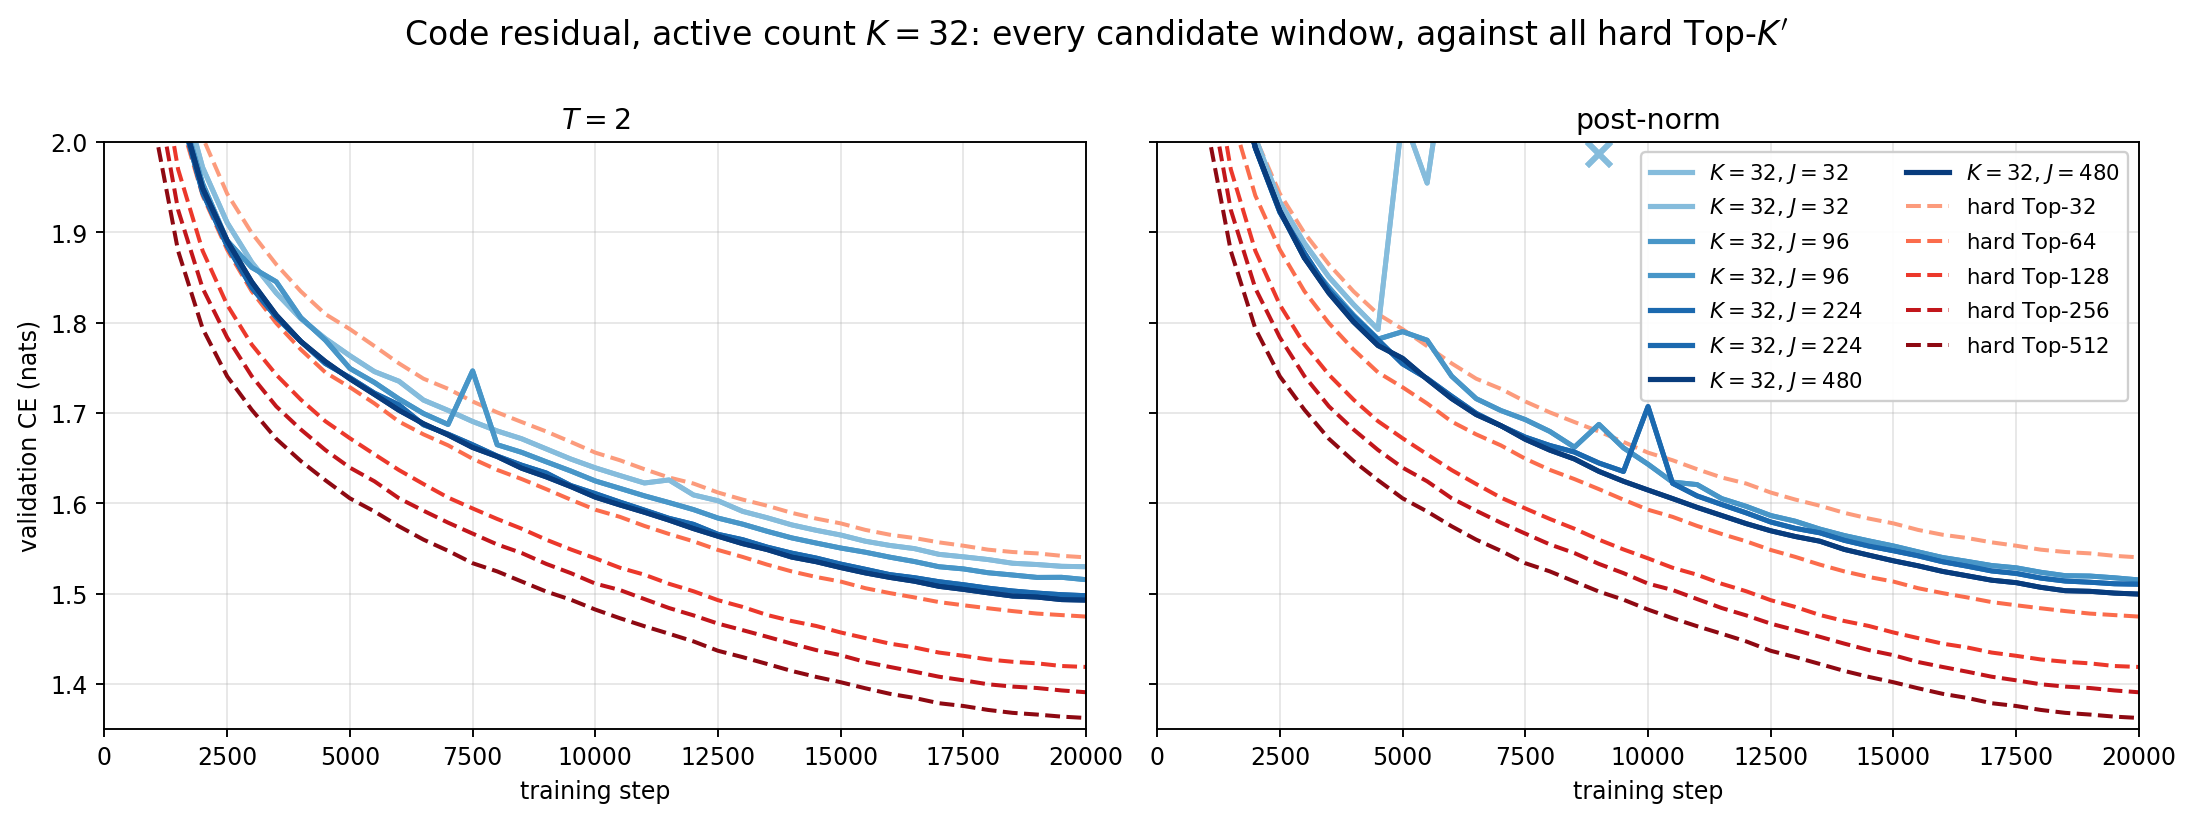
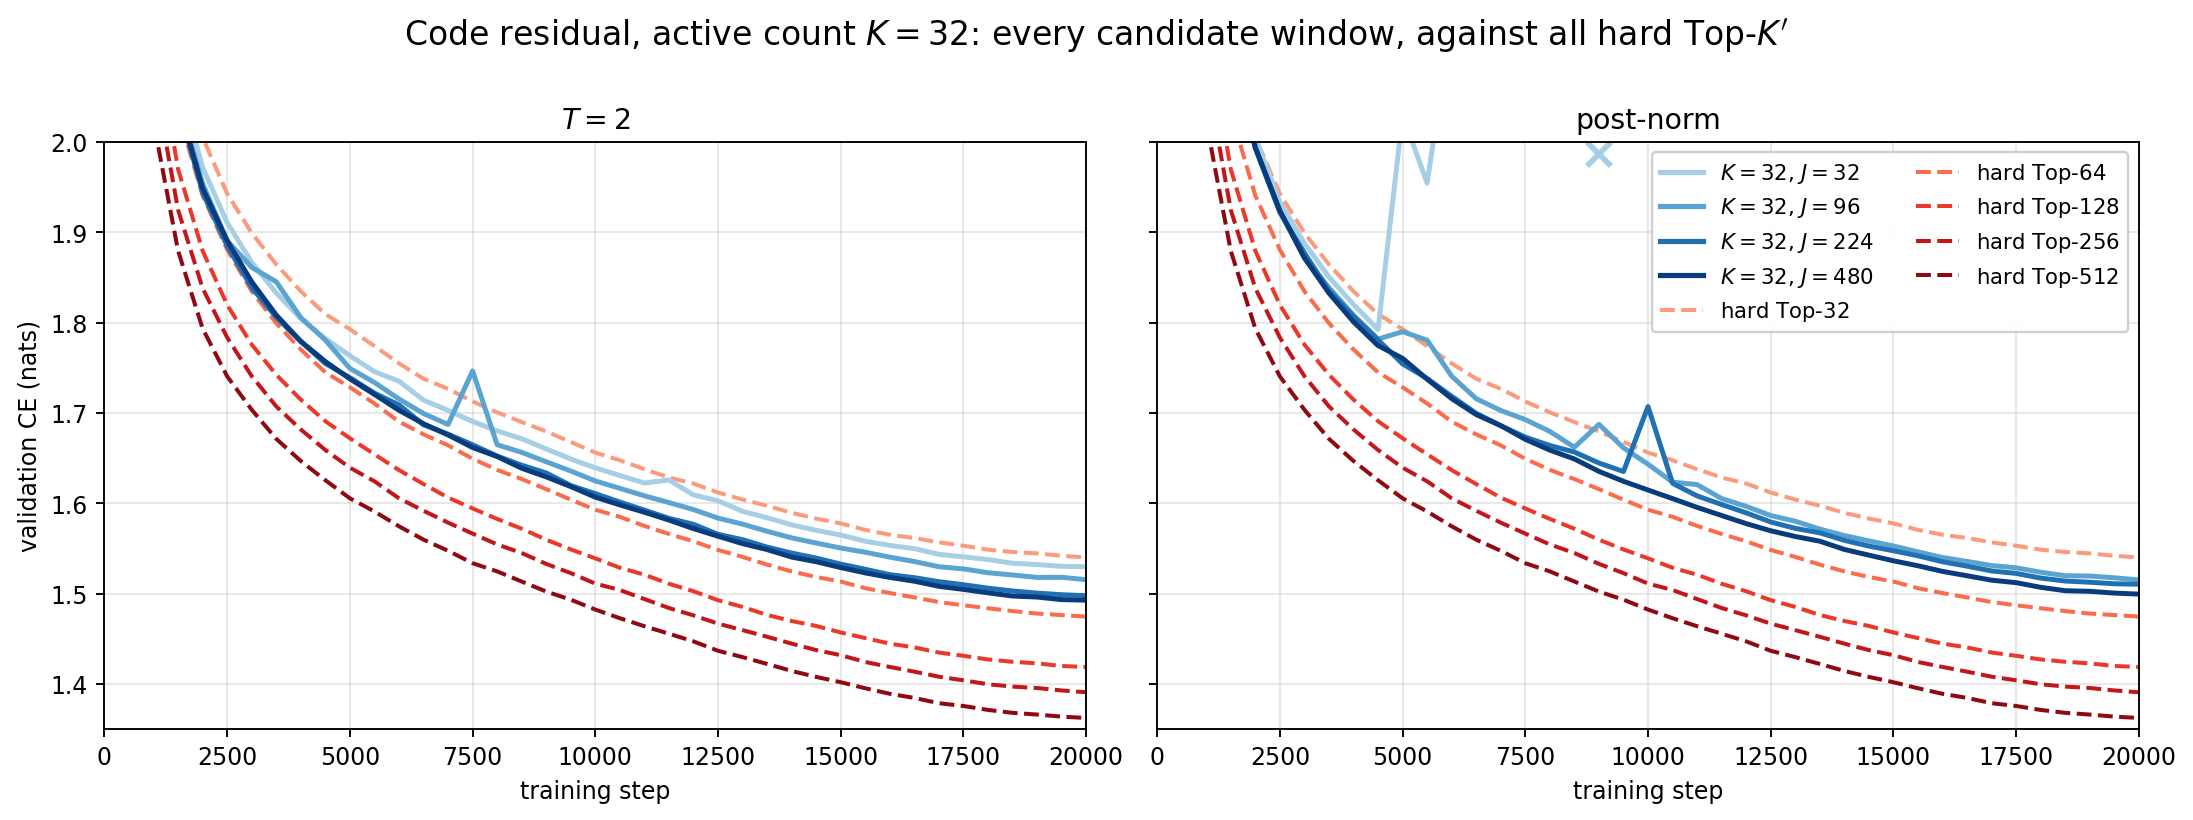
docs: code-residual K+J note -- grid results, captions, stream-vs-code comparison, interpretation (sweep pending)

diff --git a/docs/kj-vs-hard-topk-code-residual.tex b/docs/kj-vs-hard-topk-code-residual.tex
@@ -53,10 +53,32 @@ change, for the hard baselines and for the surrogate cells.
 The main conclusions are:
 
 \begin{itemize}[leftmargin=1.4em]
-\item \PH{summary 1}
-\item \PH{summary 2}
-\item \PH{summary 3}
-\item \PH{summary 4}
+\item \textbf{Carrying the code lowers the loss of every hard Top-$\Kp$
+baseline by $0.061$--$0.075$ nats}, at all five $\Kp$: a code-carried
+Top-$\Kp$ lands at or below the stream-carried Top-$2\Kp$. The best model of
+either grid is code-carried hard Top-512 at $1.3622$, against $1.4146$ for the
+best stream-carried model (the $(256,256)$ post-norm surrogate cell).
+
+\item \textbf{For the surrogate the carry is nearly neutral.} In the $T=2$
+arm the ten cells move by $-0.030$ to $+0.013$ nats (mean $-0.012$): small
+gains on the diagonal $J=K$, none at the wide windows of $K=32$. The ordering
+in $J$ is unchanged, and widening $J$ still helps monotonically at every $K$.
+
+\item \textbf{The post-norm arm becomes unstable.} Every post-norm cell with
+$K \le 128$ shows recurrent gradient-norm spikes, and five of the ten cells
+collapse to the unigram level -- $J=K$ at $K = 32, 64, 128$, and $(64,192)$,
+$(64,448)$; the five that finish end within $0.04$ nats of their
+stream-carried twins. No $T=2$ or hard cell spiked beyond recovery.
+
+\item \textbf{The candidate window no longer substitutes for active
+features.} At a fixed pool no code-carried surrogate cell beats hard
+Top-$\Kp$: on the diagonal $J=K$, where the stream-carried surrogate won by
+$0.009$--$0.014$, it now trails by $0.055$--$0.065$. At a matched active count
+the surrogate's margin over hard Top-$K$ shrinks from $0.107 / 0.087 / 0.064
+/ 0.041$ (stream carried, $K = 32$ to $256$) to $0.047 / 0.010$ at $K = 32,
+64$ and reverses to $-0.021 / -0.032$ at $K = 128, 256$.
+
+\item \PH{summary: the K=32, T=2 sweep}
 \end{itemize}
 
 % ============================================================
@@ -226,33 +248,81 @@ column.
 \toprule
 $K$ & $\Kp{=}64$ & $\Kp{=}128$ & $\Kp{=}256$ & $\Kp{=}512$ \\
 \midrule
-$32$   & \PH{} & \PH{} & \PH{} & \PH{} \\
-$64$   & ---    & \PH{} & \PH{} & \PH{} \\
-$128$  & ---    & ---    & \PH{} & \PH{} \\
-$256$  & ---    & ---    & ---    & \PH{} \\
+$32$   & 1.5297 & 1.5153 & 1.4976 & 1.4927 \\
+$64$   & ---    & 1.4840 & 1.4773 & 1.4641 \\
+$128$  & ---    & ---    & 1.4507 & 1.4436 \\
+$256$  & ---    & ---    & ---    & 1.4244 \\
 \midrule
-hard Top-$\Kp$ & \PH{} & \PH{} & \PH{} & \PH{} \\
+hard Top-$\Kp$ & 1.4745 & 1.4187 & 1.3907 & 1.3622 \\
 \bottomrule
 \end{tabular}
 \end{center}
 
 \begin{center}\small
-\textbf{post-norm, code carried}\\[2pt]
+\textbf{post-norm, code carried} (``div'': collapsed, with the step at which the run was stopped)\\[2pt]
 \begin{tabular}{lcccc}
 \toprule
 $K$ & $\Kp{=}64$ & $\Kp{=}128$ & $\Kp{=}256$ & $\Kp{=}512$ \\
 \midrule
-$32$   & \PH{} & \PH{} & \PH{} & \PH{} \\
-$64$   & ---    & \PH{} & \PH{} & \PH{} \\
-$128$  & ---    & ---    & \PH{} & \PH{} \\
-$256$  & ---    & ---    & ---    & \PH{} \\
+$32$   & div 9160 & 1.5151   & 1.5103   & 1.4994 \\
+$64$   & ---      & div 8020 & div 5840 & div 7860 \\
+$128$  & ---      & ---      & div 7960 & 1.4398 \\
+$256$  & ---      & ---      & ---      & 1.4222 \\
 \midrule
-hard Top-$\Kp$ & \PH{} & \PH{} & \PH{} & \PH{} \\
+hard Top-$\Kp$ & 1.4745 & 1.4187 & 1.3907 & 1.3622 \\
 \bottomrule
 \end{tabular}
 \end{center}
 
-\PH{reading of the tables}
+No cell is bold: no code-carried surrogate cell beats the hard baseline of
+its column. On the diagonal $J = K$, which won every column in the
+stream-carried post-norm grid, the $T=2$ cells trail hard Top-$\Kp$ by
+$0.055$ ($\Kp=64$), $0.065$ ($128$), $0.060$ ($256$) and $0.062$ ($512$), and
+the one surviving post-norm diagonal cell, $(256,256)$, by $0.060$. Within a
+column the ordering by $K$ is the stream grid's: at $\Kp = 512$,
+$1.4244 < 1.4436 < 1.4641 < 1.4927$ for $K = 256, 128, 64, 32$ at $T=2$. The
+hard Top-32 baseline ends at $1.5400$ (stream carried: $1.6022$).
+
+\paragraph{At a matched active count.}
+Against the hard baseline with the same active count, taking each $K$'s best
+surrogate cell in either variant:
+
+\begin{center}\small
+\begin{tabular}{lcccc}
+\toprule
+$K$ & best code-carried cell & hard Top-$K$, code carried & difference & stream-carried difference \\
+\midrule
+$32$  & 1.4927 ($T{=}2$, $J{=}480$)      & 1.5400 & $-0.0473$ & $-0.1073$ \\
+$64$  & 1.4641 ($T{=}2$, $J{=}448$)      & 1.4745 & $-0.0104$ & $-0.0870$ \\
+$128$ & 1.4398 (post-norm, $J{=}384$)    & 1.4187 & $+0.0211$ & $-0.0644$ \\
+$256$ & 1.4222 (post-norm, $J{=}256$)    & 1.3907 & $+0.0315$ & $-0.0414$ \\
+\bottomrule
+\end{tabular}
+\end{center}
+
+The last column is the K+J note's margin. Under the carry the surrogate is
+worth $0.047$ nats at $K=32$ and $0.010$ at $K=64$, and at $K = 128$ and
+$256$ the hard model with the same active count is the better one.
+
+\paragraph{The effect of widening $J$.}
+At fixed $K$ every increase in $J$ still lowers the loss: at $T=2$,
+$1.5297 \to 1.5153 \to 1.4976 \to 1.4927$ for $K=32$ ($J = 32, 96, 224,
+480$), $1.4840 \to 1.4773 \to 1.4641$ for $K=64$, $1.4507 \to 1.4436$ for
+$K=128$; under the post-norm $1.5151 \to 1.5103 \to 1.4994$ for $K=32$
+($J = 96, 224, 480$). The stream-carried reversal at $(32, 480)$ post-norm
+($1.5370$ after $1.4949$ at $J=224$) does not occur: the code-carried cell
+ends at $1.4994$, the best of its row. The total gain from the narrowest to
+the widest window is $0.037$ at $K=32$, $0.020$ at $K=64$ and $0.007$ at
+$K=128$, against $0.036$, $0.030$ and $0.013$ in the stream-carried post-norm
+grid.
+
+\paragraph{$T=2$ against the post-norm.}
+Where both variants finished they are close: $1.5153$ vs.\ $1.5151$ at
+$(32,96)$, $1.4976$ vs.\ $1.5103$ at $(32,224)$, $1.4927$ vs.\ $1.4994$ at
+$(32,480)$, $1.4436$ vs.\ $1.4398$ at $(128,384)$ and $1.4244$ vs.\ $1.4222$
+at $(256,256)$ -- $T=2$ ahead by up to $0.013$ at $K=32$, the post-norm by up
+to $0.004$ at $K \ge 128$. The difference between the variants is their
+stability, not their final loss.
 
 \paragraph{Stability.}
 Every hard run and every $T=2$ run finished. Five of the ten post-norm cells
@@ -272,7 +342,7 @@ post-norm cell has none, the $T=2$ cells have between 0 and 9 (largest norm
 44, each followed by recovery within a few hundred steps), and the hard cells
 none. The three small-$K$ post-norm cells that finished, $(32,96)$, $(32,224)$
 and $(32,480)$, carry their spikes to the end (largest norms $3.7 \times
-10^3$, $54$ and $8$) and still reach $1.5151$, $\PH{k32j224}$ and $1.4994$.
+10^3$, $54$ and $8$) and still reach $1.5151$, $1.5103$ and $1.4994$.
 In the stream-carried grid the same twenty cells showed no divergence.
 
 \subsection*{Per candidate pool}
@@ -284,22 +354,38 @@ runs are code-carried.
 
 \begin{figure}[htb]\centering
 \includegraphics[width=\textwidth]{figures/kj-cr/cr_pool_k64.png}
-\caption{$\Kp = 64$, code carried. \PH{}}
+\caption{$\Kp = 64$, code carried. The single surrogate cell $(32,32)$ ends
+$0.055$ above hard Top-64 at $T=2$ (in the stream grid it ended $0.010$
+below); the post-norm cell is the one that collapsed from step 4900 and was
+stopped at 9160 (the cross marks the stop).}
 \end{figure}
 
 \begin{figure}[htb]\centering
 \includegraphics[width=\textwidth]{figures/kj-cr/cr_pool_k128.png}
-\caption{$\Kp = 128$, code carried. \PH{}}
+\caption{$\Kp = 128$, code carried. At $T=2$ both cells sit above hard
+Top-128 throughout, $(64,64)$ by $0.065$ and $(32,96)$ by $0.097$ at the
+end, with the ordering by $K$ of the stream grid; the $(32,96)$ curve shows a
+recovered spike at step 7500. Under the post-norm $(64,64)$ collapsed at
+step 8020 and $(32,96)$ finished at $1.5151$ with recovered spikes at steps
+4500, 9000 and 11000.}
 \end{figure}
 
 \begin{figure}[htb]\centering
 \includegraphics[width=\textwidth]{figures/kj-cr/cr_pool_k256.png}
-\caption{$\Kp = 256$, code carried. \PH{}}
+\caption{$\Kp = 256$, code carried. At $T=2$ the three cells order by $K$
+-- $1.4507$, $1.4773$, $1.4976$ for $K = 128, 64, 32$ -- and all lie above
+hard Top-256 ($1.3907$) from the first validation point on. Under the
+post-norm $(128,128)$ and $(64,192)$ collapsed (stopped at 7960 and 5840)
+and $(32,224)$ finished at $1.5103$ after a spike at step 10000.}
 \end{figure}
 
 \begin{figure}[htb]\centering
 \includegraphics[width=\textwidth]{figures/kj-cr/cr_pool_k512.png}
-\caption{$\Kp = 512$, code carried. \PH{}}
+\caption{$\Kp = 512$, code carried. The ordering is monotone in $K$ in both
+variants and every cell lies above hard Top-512 ($1.3622$): at $T=2$ by
+$0.062$ ($K=256$), $0.081$ ($128$), $0.102$ ($64$) and $0.131$ ($32$). Under
+the post-norm $(64,448)$ collapsed at step 7860; the other three finished,
+and $(32,480)$ is no longer a reversal.}
 \end{figure}
 
 \subsection*{Per active count}
@@ -311,22 +397,37 @@ All runs are code-carried.
 
 \begin{figure}[htb]\centering
 \includegraphics[width=\textwidth]{figures/kj-cr/cr_active_k32.png}
-\caption{$K = 32$, code carried. \PH{}}
+\caption{$K = 32$, code carried. Widening the window lowers the loss
+monotonically in both variants, but the hard ladder has moved down with the
+carry: the widest window ends between hard Top-32 ($1.5400$) and hard Top-64
+($1.4745$), where the stream-carried $J=224$ cell had passed hard Top-128.
+The post-norm $(32,32)$ cell collapsed; the other three post-norm cells track
+the $T=2$ ones to within $0.013$.}
 \end{figure}
 
 \begin{figure}[htb]\centering
 \includegraphics[width=\textwidth]{figures/kj-cr/cr_active_k64.png}
-\caption{$K = 64$, code carried. \PH{}}
+\caption{$K = 64$, code carried. At $T=2$ only the widest window,
+$J=448$, ends below hard Top-64, by $0.010$; $J = 64$ and $192$ end above it.
+All three post-norm cells collapsed between steps 5840 and 8020.}
 \end{figure}
 
 \begin{figure}[htb]\centering
 \includegraphics[width=\textwidth]{figures/kj-cr/cr_active_k128.png}
-\caption{$K = 128$, code carried. \PH{}}
+\caption{$K = 128$, code carried. Both $T=2$ cells and the surviving
+post-norm cell end above hard Top-128 ($1.4187$), by $0.032$ ($J=128$),
+$0.025$ and $0.021$ ($J=384$, $T=2$ and post-norm); in the stream grid both
+windows beat hard Top-256. The post-norm $(128,128)$ cell collapsed at step
+7960.}
 \end{figure}
 
 \begin{figure}[htb]\centering
 \includegraphics[width=\textwidth]{figures/kj-cr/cr_active_k256.png}
-\caption{$K = 256$, code carried. \PH{}}
+\caption{$K = 256$, code carried. The single cell ends at $1.4244$
+($T=2$) and $1.4222$ (post-norm), above hard Top-256 ($1.3907$) by $0.034$
+and $0.032$ and above hard Top-512 by $0.06$. The stream-carried version of
+this cell, $1.4146$, was the best model of the K+J note; code-carried hard
+Top-256 and Top-512 are both below it.}
 \end{figure}
 
 % ============================================================
@@ -342,24 +443,29 @@ block 1 on. Final validation CE, code carried minus stream carried
 \toprule
 $T=2$: $K$ & $\Kp{=}64$ & $\Kp{=}128$ & $\Kp{=}256$ & $\Kp{=}512$ \\
 \midrule
-$32$   & \PH{} & \PH{} & \PH{} & \PH{} \\
-$64$   & ---    & \PH{} & \PH{} & \PH{} \\
-$128$  & ---    & ---    & \PH{} & \PH{} \\
-$256$  & ---    & ---    & ---    & \PH{} \\
+$32$   & $-0.0196$ & $+0.0007$ & $+0.0134$ & $-0.0016$ \\
+$64$   & ---       & $-0.0301$ & $-0.0148$ & $-0.0086$ \\
+$128$  & ---       & ---       & $-0.0295$ & $-0.0162$ \\
+$256$  & ---       & ---       & ---       & $-0.0181$ \\
 \midrule
 post-norm: $K$ & & & & \\
 \midrule
-$32$   & \PH{} & \PH{} & \PH{} & \PH{} \\
-$64$   & ---    & \PH{} & \PH{} & \PH{} \\
-$128$  & ---    & ---    & \PH{} & \PH{} \\
-$256$  & ---    & ---    & ---    & \PH{} \\
+$32$   & div       & $+0.0035$ & $+0.0154$ & $-0.0376$ \\
+$64$   & ---       & div       & div       & div \\
+$128$  & ---       & ---       & div       & $+0.0104$ \\
+$256$  & ---       & ---       & ---       & $+0.0076$ \\
 \midrule
-hard Top-$\Kp$ & \PH{} & \PH{} & \PH{} & \PH{} \\
+hard Top-$\Kp$ & $-0.0664$ & $-0.0751$ & $-0.0653$ & $-0.0609$ \\
 \bottomrule
 \end{tabular}
 \end{center}
 
-\PH{hard Top-32 difference and reading}
+Hard Top-32 moves by $-0.0621$. The two families differ by one operation
+from block 1 on, and that operation is worth $0.06$--$0.075$ nats to a hard
+bottleneck and $-0.030$ to $+0.015$ to the surrogate ($T=2$ mean $-0.012$;
+the surviving post-norm cells $-0.038$ to $+0.015$). The surrogate's
+diagonal cells gain the most ($-0.020$ to $-0.030$ at $J = K \le 128$),
+the wide windows of $K=32$ nothing.
 
 \subsection*{Hard Top-$\Kp$}
 
@@ -396,22 +502,36 @@ carried (solid, blue ramp); left panel $T=2$, right panel post-norm.
 
 \begin{figure}[htb]\centering
 \includegraphics[width=\textwidth]{figures/kj-cr/cr_vs_stream_rbk_k32.png}
-\caption{$K = 32$, $J \in \{32, 96, 224, 480\}$. \PH{}}
+\caption{$K = 32$, $J \in \{32, 96, 224, 480\}$. At $T=2$ each
+code-carried curve runs within $0.02$ of its stream-carried twin, below it
+for $J=32$ and above for $J=224$; the carried $J=32$ cell shows recovered
+spikes at steps 4500 and 11500. Under the post-norm the carried $(32,32)$
+cell collapsed, $J = 96$ and $224$ end within $0.016$ of their twins, and
+$J=480$ ends $0.038$ below its twin, the stream grid's reversal.}
 \end{figure}
 
 \begin{figure}[htb]\centering
 \includegraphics[width=\textwidth]{figures/kj-cr/cr_vs_stream_rbk_k64.png}
-\caption{$K = 64$, $J \in \{64, 192, 448\}$. \PH{}}
+\caption{$K = 64$, $J \in \{64, 192, 448\}$. At $T=2$ all three
+code-carried cells lie below their twins from about step 2500 on and end
+$0.030$, $0.015$ and $0.009$ lower; the gap narrows as training proceeds.
+Under the post-norm all three code-carried cells collapsed (stopped at 8020,
+5840 and 7860) while the stream-carried ones trained smoothly.}
 \end{figure}
 
 \begin{figure}[htb]\centering
 \includegraphics[width=\textwidth]{figures/kj-cr/cr_vs_stream_rbk_k128.png}
-\caption{$K = 128$, $J \in \{128, 384\}$. \PH{}}
+\caption{$K = 128$, $J \in \{128, 384\}$. At $T=2$ the code-carried
+cells end $0.030$ and $0.016$ below their twins, separating from about step
+5000. Under the post-norm $(128,128)$ collapsed at step 7960 and the
+$(128,384)$ curves are indistinguishable ($+0.010$ at the end).}
 \end{figure}
 
 \begin{figure}[htb]\centering
 \includegraphics[width=\textwidth]{figures/kj-cr/cr_vs_stream_rbk_k256.png}
-\caption{$K = 256$, $J = 256$. \PH{}}
+\caption{$K = 256$, $J = 256$. $T=2$: the code-carried cell leads
+throughout and ends $0.018$ lower; post-norm: the two curves coincide to
+within $0.008$ at every point.}
 \end{figure}
 
 % ============================================================
@@ -458,19 +578,68 @@ $\gamma = 1$. \PH{}}
 \section{Interpretation}
 % ============================================================
 
-\PH{interpretation}
+Three regularities organize the grid.
+
+First, \textbf{the carry is worth about one doubling of the active count to
+a hard bottleneck, and almost nothing to the surrogate.} The hard baselines
+move by $0.061$--$0.075$ nats at every $\Kp$, the ten $T=2$ surrogate cells
+by $-0.012$ on average, and the margins of the K+J note shrink by the
+difference: at a matched active count the surrogate's advantage over hard
+Top-$K$ falls by $0.060$, $0.077$, $0.085$ and $0.073$ at $K = 32, 64, 128,
+256$, which is the hard gain at that $K$ ($0.062$, $0.066$, $0.075$,
+$0.065$) to within $-0.002$ to $+0.010$. The simplest reading is
+that the two mechanisms supply the same thing. In the stream-carried stack
+block $l{+}1$ recomputes its support from the decoded stream, and since
+$E_{l+1} D_l \ne I$ a feature kept by block $l$ can be dropped at block
+$l{+}1$ with $\Delta_{l+1} = 0$; gradient to the $J$ candidates lets the
+encoders learn supports that survive this re-selection. The carry makes the
+support persistent by construction, so the hard model receives directly what
+the surrogate had to learn, and the surrogate has little left to add. The
+exchange rate matches: the stream-carried surrogate bought one doubling of
+$K$ (a pool of $2K$ beat hard Top-$2K$), and the code-carried hard model
+lands at the stream-carried Top-$2\Kp$.
+
+Second, \textbf{the surrogate's backward along the carry is the unstable
+part.} The carry is the identity on each code coordinate, so the support
+term of every gate a boundary coordinate passes multiplies its gradient by
+about $1 + |u|\kappa$, with $\kappa \propto 1/T$. At $T=1$ (the post-norm
+arm) this produced recurrent spikes in every cell with $K \le 128$ and five
+collapses; at $T=2$ the spikes are rare and recover. The same mechanism
+collapsed the 24-layer code-residual stack at $T=1$, and the $T=2$ arm here
+shows that eight blocks and a kernel twice as wide keep it below the
+threshold. Whether the surviving $T=2$ cells still pay for it in their final
+loss is what the $K=32$ sweep of Section~6 measures: a smaller support scale
+$\gamma$ or the first-order scope removes the compounding while keeping the
+window.
+
+Third, \textbf{a change that adds no parameters and no compute moved the
+hard model further than the surrogate had.} The best model of the
+K+J note, the $(256,256)$ post-norm surrogate at $1.4146$, is beaten by
+code-carried hard Top-256 ($1.3907$) with the same active count and by
+code-carried hard Top-512 ($1.3622$). For a stream bottleneck at this depth
+the carry is the larger lever, and the practical default from the K+J note
+-- a pool of $2K$ with the output norm -- does not transfer: under the carry
+the post-norm variant is the unstable one, and the pool no longer pays for
+itself against the correspondingly larger hard model.
+
+\PH{interpretation: the sweep}
 
 % ============================================================
 \section{Scope}
 % ============================================================
 
 All cells are single runs at one seed, and the two families were trained on
-different GPUs; a seed-matched pair of the same config on the two machines
-would calibrate how much of a small cell-to-cell difference is hardware.
-Only the default surrogate scope was run in the code-carried family; the
-first-order scope that the 24-layer study found necessary there was not
-part of this grid, because the grid's premise was a single flag. The depth
-is eight blocks throughout, $K + J \le 512$ well inside $N = 1536$, and the
-hard baselines all carry the post-norm.
+different GPUs; the hard-baseline differences ($0.06$--$0.075$) and the
+diverged cells are far outside run-to-run variation, the surrogate
+differences ($|{\Delta}| \le 0.03$) are not all so, and a seed-matched pair
+of one config on the two machines would calibrate the hardware part. Five
+post-norm cells did not finish, so the post-norm half of the grid has holes;
+four were stopped by the divergence guard's rule (training CE more than
+$2.5$ above its best for 800 steps) and one by hand after its validation CE
+had reached the unigram level. The grid itself keeps the default surrogate
+scope and support scale, as the single-flag premise requires; Section~6
+varies both at $K=32$, $T=2$ only. The depth is eight blocks throughout,
+$K + J \le 512$ well inside $N = 1536$, and the hard baselines all carry the
+post-norm.
 
 \end{document}

diff --git a/scripts/plot_cr_kj.py b/scripts/plot_cr_kj.py
@@ -202,7 +202,7 @@ for Kp in KS:
 cr_hard_ks = sorted(k for (fam, kind, k, j, var) in cells if fam == "cr" and kind == "hard")
 hcol = shades(cr_hard_ks, REDS, R_RANGE) if cr_hard_ks else {}
 for K in KS:
-    js = sorted(j for (fam, kind, k, j, var) in cells if fam == "cr" and kind == "kappa" and k == K)
+    js = sorted({j for (fam, kind, k, j, var) in cells if fam == "cr" and kind == "kappa" and k == K})
     if not js:
         continue
     col = shades(js, BLUES, B_RANGE)
